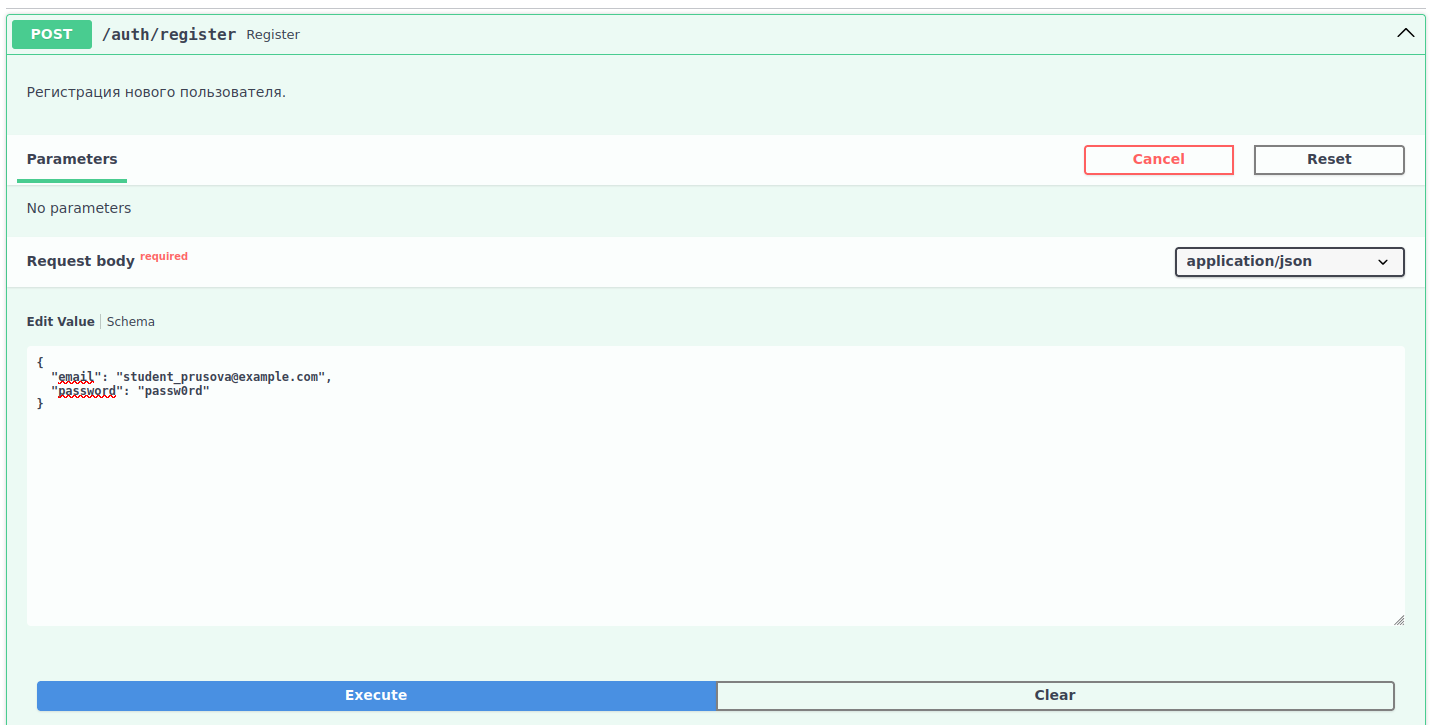
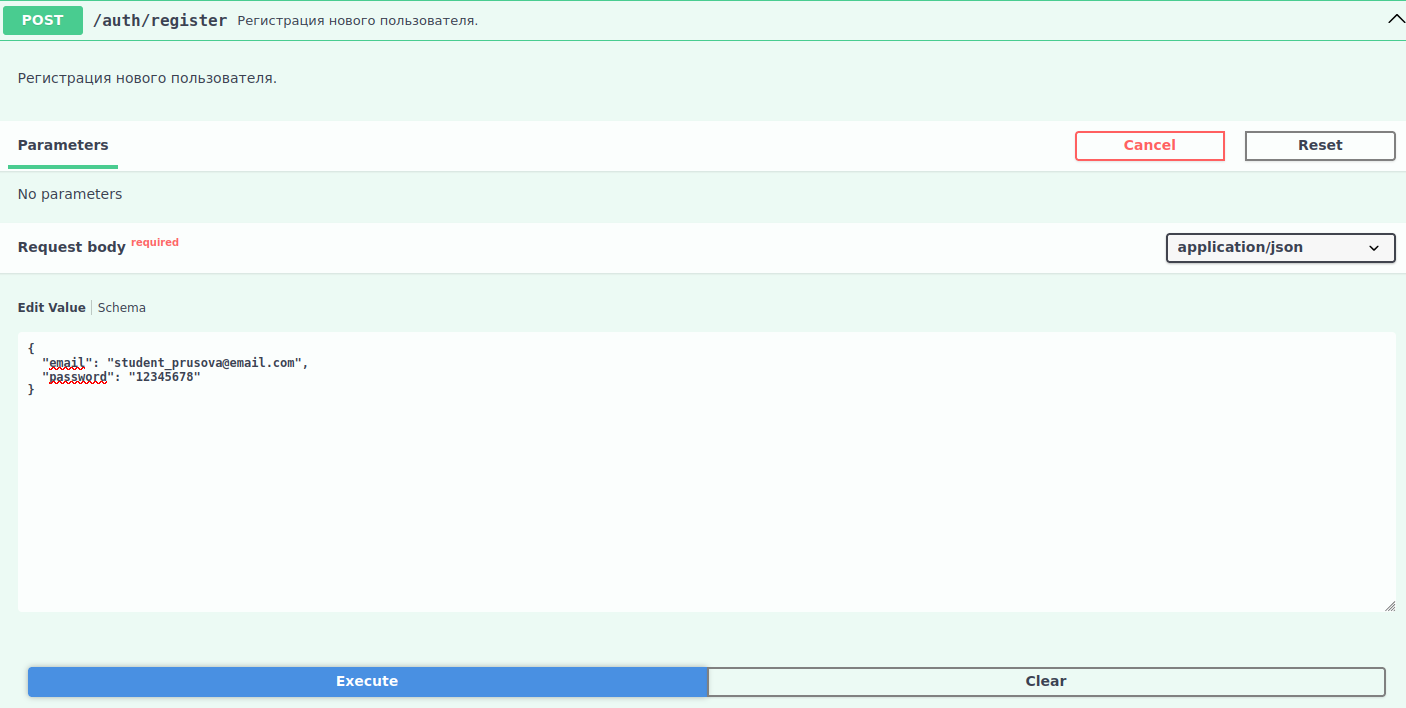
Изменение скринов для регистрации

diff --git a/llm-p/docs/registration/registration.md b/llm-p/docs/registration/registration.md
@@ -13,6 +13,8 @@
 | email    | str | Email пользователя  | --                    | ✅            |
 | password | str | Пароль пользователя | --                    | ✅            |
 
+![registrate_request.png](registrate_request.png)
+
 ## Response:
 
 **201 - Created**:
@@ -26,7 +28,7 @@
 | role       | str  | Роль пользователя (всем пользователям присваивается роль `user`) |
 | created_at | str  | Дата и время регистрации пользователя                            |
 
-![registrate_request.png](registrate_request.png)
+![registrate_response.png](registrate_response.png)
 
 **409 - Conflict**:
 
